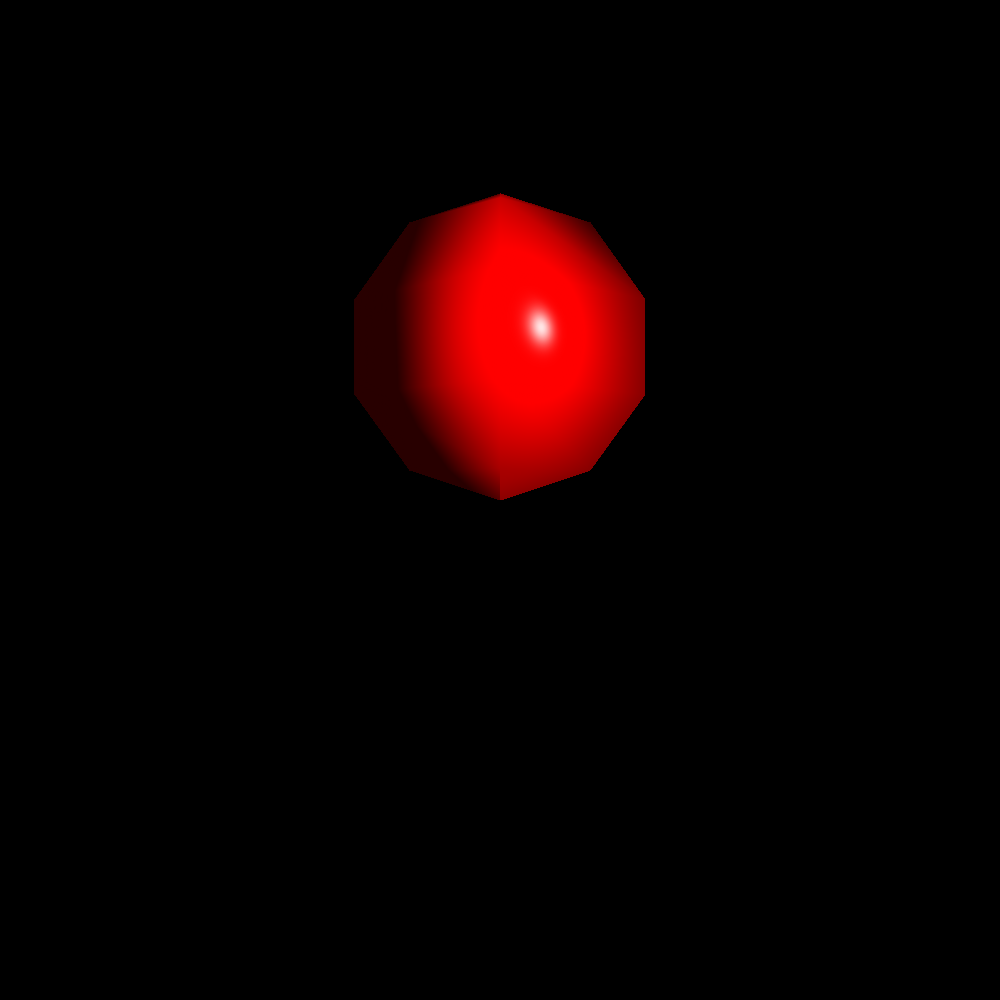
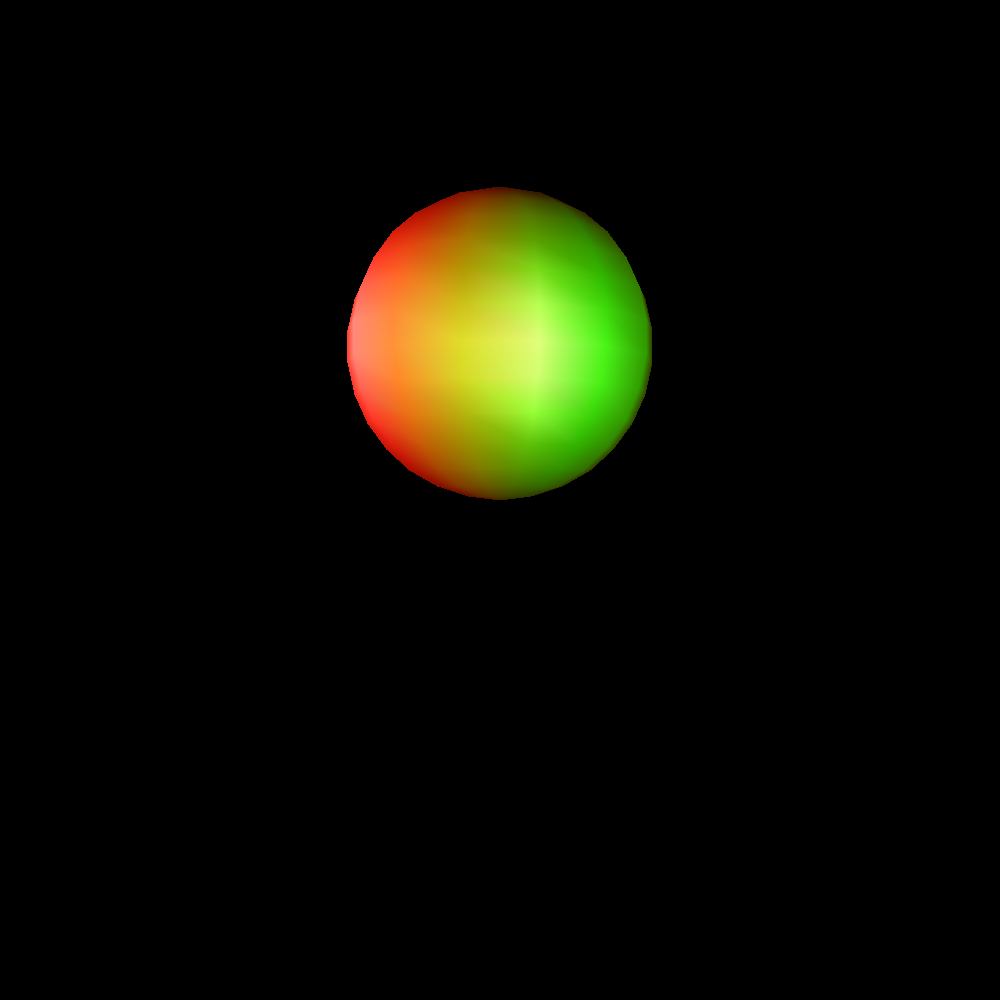
Refactor Triangle.cpp

Changed region(s): [[0.341, 0.186, 0.651, 0.496]]

diff --git a/Zad1/Triangle.cpp b/Zad1/Triangle.cpp
@@ -47,6 +47,14 @@ void Triangle::Draw(int& i, int& j, ColorBuffer& buffer)
 {
 	if (isInsideTriangle(i, j))
 	{
+		L1 = (dy23 * (j - v3.x) + dx32 * (i - v3.y)) / (dy23 * dx13 + dx32 * dy13);
+		L2 = (dy31 * (j - v3.x) + dx13 * (i - v3.y)) / (dy31 * dx23 + dx13 * dy23);
+		L3 = 1 - L2 - L1;
+
+		R = L1 * colorV1.x + L2 * colorV2.x + L3 * colorV3.x;
+		G = L1 * colorV1.y + L2 * colorV2.y + L3 * colorV3.y;
+		B = L1 * colorV1.z + L2 * colorV2.z + L3 * colorV3.z;
+
 		float depth = L1 * v1.z + L2 * v2.z + L3 * v3.z;
 		if (depth < DEPTHBUFFER[i * HEIGHT + j])
 		{
@@ -58,12 +66,12 @@ void Triangle::Draw(int& i, int& j, ColorBuffer& buffer)
 
 void Triangle::PixelCoords()
 {
-	v1.x = (int)((v1.x + 1) * width * 0.5f);
-	v1.y = (int)((v1.y + 1) * height * 0.5f);
-	v2.x = (int)((v2.x + 1) * width * 0.5f);
-	v2.y = (int)((v2.y + 1) * height * 0.5f);
-	v3.x = (int)((v3.x + 1) * width * 0.5f);
-	v3.y = (int)((v3.y + 1) * height * 0.5f);
+	v1.x = (int)((v1.x + 1) * WIDTH * 0.5f);
+	v1.y = (int)((v1.y + 1) * HEIGHT * 0.5f);
+	v2.x = (int)((v2.x + 1) * WIDTH * 0.5f);
+	v2.y = (int)((v2.y + 1) * HEIGHT * 0.5f);
+	v3.x = (int)((v3.x + 1) * WIDTH * 0.5f);
+	v3.y = (int)((v3.y + 1) * HEIGHT * 0.5f);
 }
 
 void Triangle::MinSpace()
@@ -81,34 +89,34 @@ void Triangle::Lambda(int& i, int& j)
 	L2 = (dy31 * (j - v3.x) + dx13 * (i - v3.y)) / (dy31 * dx23 + dx13 * dy23);
 	L3 = 1 - L2 - L1;
 
-	Vector3 V = -dv1 * L1 + -dv2 * L2 + -dv3 * L3;
-	V = Vector3::Normalize(V);
-	Vector3 N = n1 * L1 + n2 * L2 + n3 * L3;
-	N = Vector3::Normalize(N);
+	//Vector3 V = -dv1 * L1 + -dv2 * L2 + -dv3 * L3;
+	//V = Vector3::Normalize(V);
+	//Vector3 N = n1 * L1 + n2 * L2 + n3 * L3;
+	//N = Vector3::Normalize(N);
 
-	Vector3 lightPosition(0.2, 0, -0.5);
-	lightPosition = lightPosition.Normalize();
+	//Vector3 lightPosition(0.2, 0, -0.5);
+	//lightPosition = lightPosition.Normalize();
 
-	float diffuse = Vector3::Dot(lightPosition, N);
-	if (diffuse < 0) diffuse = 0;
-	Vector3 dif = Vector3(255,0,0) * diffuse;
+	//float diffuse = Vector3::Dot(lightPosition, N);
+	//if (diffuse < 0) diffuse = 0;
+	//Vector3 dif = Vector3(255,0,0) * diffuse;
 
-	Vector3 Rr = lightPosition - (N * 2 * (Vector3::Dot(lightPosition, N)));
-	Rr = Vector3::Normalize(Rr);
-	float specular = Vector3::Dot(Rr, V);
-	Vector3 spec;
+	//Vector3 Rr = lightPosition - (N * 2 * (Vector3::Dot(lightPosition, N)));
+	//Rr = Vector3::Normalize(Rr);
+	//float specular = Vector3::Dot(Rr, V);
+	//Vector3 spec;
 
-	if (specular > 0)
-	{
-		specular = pow(specular, 99);
-		spec = Vector3(255,255,255) * specular * 0.9;
-	}
+	//if (specular > 0)
+	//{
+	//	specular = pow(specular, 99);
+	//	spec = Vector3(255,255,255) * specular * 0.9;
+	//}
 
-	colorV1 = dif + spec + Vector3(40, 0, 0);
-	colorV2 = dif + spec + Vector3(40, 0, 0);
-	colorV3 = dif + spec + Vector3(40, 0, 0);
+	//colorV1 = dif + spec + Vector3(40, 0, 0);
+	//colorV2 = dif + spec + Vector3(40, 0, 0);
+	//colorV3 = dif + spec + Vector3(40, 0, 0);
 
-	CutColorRange();
+	//CutColorRange();
 	//std::cout << p.ToString() << "\n";
 
 	//color for each pixel
@@ -159,7 +167,6 @@ bool Triangle::isInsideTriangle(int &i, int &j)
 			(f2 == 0 ? tl2 : f2 > 0) &&
 			(f3 == 0 ? tl3 : f3 > 0))
 		{
-			Lambda(i, j);
 			return true;
 		}
 	}

diff --git a/Zad1/RenderingAlghortims.cpp b/Zad1/RenderingAlghortims.cpp
@@ -16,7 +16,7 @@ int main()
 {
 	ColorBuffer buffer(WIDTH, HEIGHT);
 
-	Sphere sphere(4, 4);
+	Sphere sphere(14,14);
 	//Sphere sph1(15, 15);
 	//Cone cone(15, 1);
 	//Cylinder cylinder(15, 5);
@@ -31,36 +31,12 @@ int main()
 	modelSphere = modelSphere.Translate(modelSphere, Vector3(0, -1, 7));
 	//model = model.Rotate(model, Vector3(1, 0, 1), 45);
 
-	//Matrix4 mS;
-	//mS = mS.Translate(mS, Vector3(-3, -1, 13));
-	////model = model.Rotate(model, Vector3(1, 0, 1), 45);
-
-	//Matrix4 modelCone;
-	//modelCone = modelCone.Translate(modelCone, Vector3(-2, 2, 9));
-	////m = m.Rotate(m, Vector3(1, 0, 1), 45);
-
-	//Matrix4 modelCylinder;
-	//modelCylinder = modelCylinder.Translate(modelCylinder, Vector3( 3, -1, 9));
-	//modelCylinder = modelCylinder.Rotate(modelCylinder, Vector3(-1, 0, 1), 15);
-
 	sphere.SetModelMatrix(modelSphere);
 	sphere.SetCamera(camera);
 	sphere.SetProjection(obj2view);
 
-	//sph1.SetModelMatrix(mS);
-	//sph1.SetCamera(camera);
-	//sph1.SetProjection(obj2view);
-
-	//cone.SetModelMatrix(modelCone);
-	//cone.SetCamera(camera);
-	//cone.SetProjection(obj2view);
-
-	//cylinder.SetModelMatrix(modelCylinder);
-	//cylinder.SetCamera(camera);
-	//cylinder.SetProjection(obj2view);
-
-	DirectionalLight dl(Vector3(0.1f, 0.0, -0.2f), Vector3(50,0,0),Vector3(210,0,0),Vector3(255,255,255));
-	PointLight pl(Vector3(2,0, 10), Vector3(0, 15, 0), Vector3(0, 220, 0), Vector3(255, 255, 255));
+	DirectionalLight dl(Vector3(-0.4f, 0.0, -0.2f), Vector3(50,0,0),Vector3(210,0,0),Vector3(255,255,255));
+	PointLight pl(Vector3(2,0, 2), Vector3(0, 15, 0), Vector3(0, 220, 0), Vector3(255, 255, 255));
 
 	std::vector<Mesh> figures;
 	figures = { sphere };
@@ -68,9 +44,8 @@ int main()
 	for (auto& f: figures)
 	{
 		f.SetView();
-		//f.SetColor(Vector3(255, 255, 0));
-		//pl.Calculate(f);
-		//dl.Calculate(f);
+		pl.Calculate(f);
+		dl.Calculate(f);
 	}
 
 	for (int i = 0; i < HEIGHT; i++)
